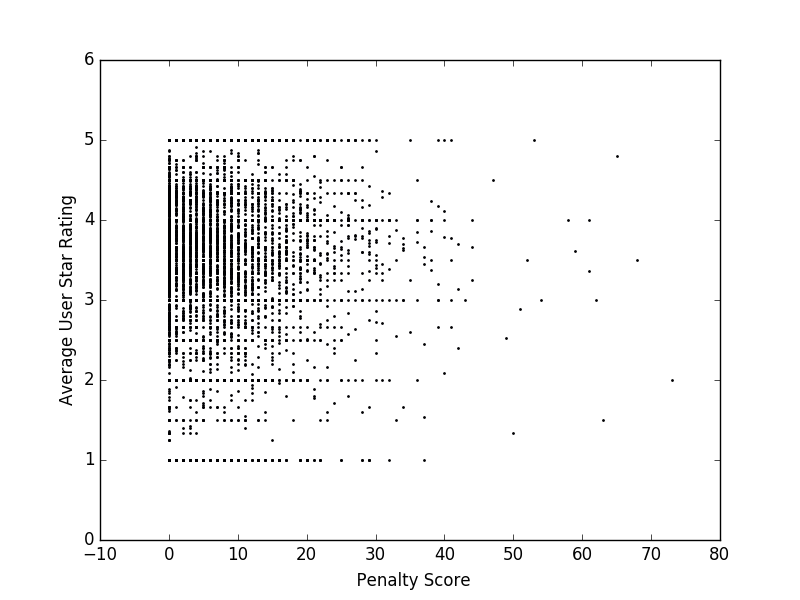
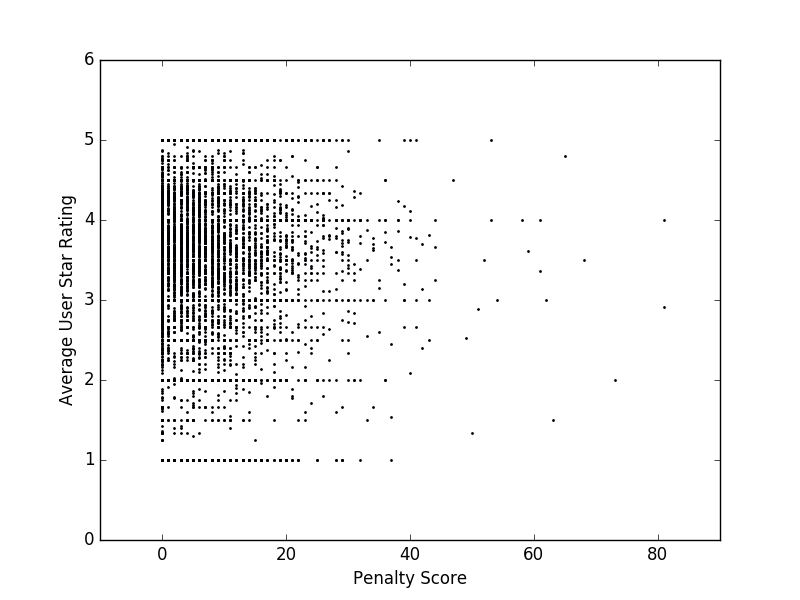
Boston University GRS CS 591
Added Trial Mode flag
Updated scatter-plit.png

diff --git a/jas91_smaf91/rating_inspection_correlation.py b/jas91_smaf91/rating_inspection_correlation.py
@@ -7,8 +7,10 @@ import scipy
 from scipy.stats import pearsonr
 from matplotlib import pyplot as plt
 import numpy as np
+import sys
+import warnings
 
-TRIAL_LIMIT = 20000
+TRIAL_LIMIT = 5000
 
 def join_business_inspections(repo, trial):
     repo.dropPermanent('jas91_smaf91.yelp_business_inspections')
@@ -26,23 +28,34 @@ def join_business_inspections(repo, trial):
 
         if not longitude and not latitude:
             continue
-
-        business = repo.jas91_smaf91.yelp_business.find_one({
+        
+        business = repo.jas91_smaf91.yelp_business.find({
             'businessname': document['businessname'].lower(),
-            'geo_info.geometry': {
-                '$near': { 
-                    '$geometry': {
-                        'type': 'Point', 
-                        'coordinates' :[latitude,longitude]
-                        }, 
-                    '$maxDistance': 50, 
-                    '$minDistance': 0 
-                    } 
-                }
-            })
+        })
+        
+        if not business or business.count() == 0:
+            continue
+            
+        if business.count() > 1:
+            business = repo.jas91_smaf91.yelp_business.find_one({
+                'businessname': document['businessname'].lower(),
+                'geo_info.geometry': {
+                    '$near': { 
+                        '$geometry': {
+                            'type': 'Point', 
+                            'coordinates' :[latitude,longitude]
+                            }, 
+                        '$maxDistance': 50, 
+                        '$minDistance': 0 
+                        } 
+                    }
+                })
+        else:
+            business = business[0]
         
         if not business:
             continue
+
 
         document['business_id'] = business['business_id']
         repo.jas91_smaf91.yelp_business_inspections.insert_one(document)
@@ -117,8 +130,11 @@ def associate_reviews(repo):
                 ratings.append(avg_rating)
 
 def evaluate_correlation(scores,ratings):
-    coef, p_value = pearsonr(scores, ratings)
-    return (coef, p_value)
+    if len(scores) > 1 and len(ratings) > 1:
+        coef, p_value = pearsonr(scores, ratings)
+        return (coef, p_value)
+    else:
+        print("[OUT] Pearson Correlation cannot be calculated: Not enough values. Try in non trial mode")
 
 def ratings_by_severity(ratings, severities):
     level0 = []
@@ -143,6 +159,11 @@ def ratings_by_severity(ratings, severities):
     print("Level 3", evaluate_correlation(level3,ratings))
     print("Penalty Score", evaluate_correlation(penal_scores,ratings))
     print("Number of violations", evaluate_correlation(number_violations,ratings))
+
+    #plt.scatter(penal_scores, ratings, s=1, alpha=1)
+    #plt.xlabel("Penalty Score")
+    #plt.ylabel("Average User Star Rating")
+    #plt.show()
 
 BUSINESS = {}
 scores = []
@@ -226,10 +247,11 @@ class rating_inspection_correlation(dml.Algorithm):
 
         return doc
 
-
-'''
-rating_inspection_correlation.execute(True)
-doc = rating_inspection_correlation.provenance()
-print(json.dumps(json.loads(doc.serialize()), indent=4))
-'''
-
+if 'trial' in sys.argv:
+    rating_inspection_correlation.execute(True)
+#else:
+#    rating_inspection_correlation.execute()
+#
+#
+#doc = rating_inspection_correlation.provenance()
+#print(json.dumps(json.loads(doc.serialize()), indent=4))

diff --git a/jas91_smaf91/skyline.py b/jas91_smaf91/skyline.py
@@ -3,6 +3,7 @@ import prov.model
 import datetime
 import uuid
 import json
+import sys
 
 from bson.code import Code
 
@@ -102,6 +103,9 @@ class skyline(dml.Algorithm):
     @staticmethod
     def execute(trial = False):
         startTime = datetime.datetime.now()
+        
+        if trial:
+            print("[OUT] Running in Trial Mode")
 
         # Set up the database connection.
         client = dml.pymongo.MongoClient()
@@ -166,6 +170,9 @@ class skyline(dml.Algorithm):
 
         return doc
 
-skyline.execute()
+if 'trial' in sys.argv:
+    skyline.execute(True)
+#else:
+#    skyline.execute()
 #doc = skyline.provenance()
 #print(json.dumps(json.loads(doc.serialize()), indent=4))

diff --git a/jas91_smaf91/transformation3.py b/jas91_smaf91/transformation3.py
@@ -3,6 +3,7 @@ import prov.model
 import datetime
 import uuid
 import json
+import sys
 
 from bson.code import Code
 
@@ -159,8 +160,11 @@ class transformation3(dml.Algorithm):
 
         return doc
 
-'''
-transformation3.execute()
-doc = transformation3.provenance()
-print(json.dumps(json.loads(doc.serialize()), indent=4))
-'''
+if 'trial' in sys.argv:
+    transformation3.execute(True)
+#else:
+#    transformation3.execute()
+
+#transformation3.execute()
+#doc = transformation3.provenance()
+#print(json.dumps(json.loads(doc.serialize()), indent=4))

diff --git a/jas91_smaf91/transformation4.py b/jas91_smaf91/transformation4.py
@@ -3,6 +3,7 @@ import prov.model
 import datetime
 import uuid
 import json
+import sys
 
 from bson.code import Code
 
@@ -308,8 +309,10 @@ class transformation4(dml.Algorithm):
 
         return doc
 
-'''
-transformation4.execute()
-doc = transformation4.provenance()
-print(json.dumps(json.loads(doc.serialize()), indent=4))
-'''
+if 'trial' in sys.argv:
+    transformation4.execute(True)
+#else:
+#    transformation4.execute()
+#
+#doc = transformation4.provenance()
+#print(json.dumps(json.loads(doc.serialize()), indent=4))

diff --git a/jas91_smaf91/load_yelp_data.py b/jas91_smaf91/load_yelp_data.py
@@ -4,6 +4,7 @@ import dml
 import prov.model
 import datetime
 import uuid
+import sys
 
 TRIAL_LIMIT = 5000
 
@@ -124,10 +125,10 @@ class load_yelp_data(dml.Algorithm):
 
         return doc
 
-'''
-load_yelp_data.execute(True)
-doc = load_yelp_data.provenance()
-print(json.dumps(json.loads(doc.serialize()), indent=4))
-'''
-
-
+if 'trial' in sys.argv:
+    load_yelp_data.execute(True)
+#else:
+#    load_yelp_data.execute()
+#
+#doc = load_yelp_data.provenance()
+#print(json.dumps(json.loads(doc.serialize()), indent=4))

diff --git a/jas91_smaf91/transformation2.py b/jas91_smaf91/transformation2.py
@@ -3,6 +3,7 @@ import dml
 import prov.model
 import datetime
 import uuid
+import sys
 
 TRIAL_LIMIT = 5000
 
@@ -190,8 +191,10 @@ class transformation2(dml.Algorithm):
 
         return doc
 
-'''
-transformation2.execute()
-doc = transformation2.provenance()
-print(json.dumps(json.loads(doc.serialize()), indent=4))
-'''
+if 'trial' in sys.argv:
+    transformation2.execute(True)
+#else:
+#    transformation2.execute()
+#
+#doc = transformation2.provenance()
+#print(json.dumps(json.loads(doc.serialize()), indent=4))

diff --git a/jas91_smaf91/transformation1.py b/jas91_smaf91/transformation1.py
@@ -4,6 +4,7 @@ import dml
 import prov.model
 import datetime
 import uuid
+import sys
 
 TRIAL_LIMIT = 5000
 
@@ -250,8 +251,9 @@ class transformation1(dml.Algorithm):
 
         return doc
 
-'''
-transformation1.execute()
-doc = transformation1.provenance()
-print(json.dumps(json.loads(doc.serialize()), indent=4))
-'''
+if 'trial' in sys.argv:
+    transformation1.execute(True)
+#else:
+#    transformation1.execute()
+#doc = transformation1.provenance()
+#print(json.dumps(json.loads(doc.serialize()), indent=4))

diff --git a/jas91_smaf91/get_data.py b/jas91_smaf91/get_data.py
@@ -5,6 +5,7 @@ import dml
 import prov.model
 import datetime
 import uuid
+import sys
 
 TRIAL_LIMIT = 5000
 
@@ -183,6 +184,9 @@ class get_data(dml.Algorithm):
         return doc
 
 # REMEMBER TO COMMENT THIS BEFORE SUBMITTING
-get_data.execute(True)
+if 'trial' in sys.argv:
+    get_data.execute(True)
+#else:
+#    get_data.execute()
 #doc = get_data.provenance()
 #print(json.dumps(json.loads(doc.serialize()), indent=4))

diff --git a/jas91_smaf91/kmeans.py b/jas91_smaf91/kmeans.py
@@ -3,6 +3,7 @@ import prov.model
 import datetime
 import uuid
 import json
+import sys
 
 from geopy.distance import great_circle
 from sklearn import cluster
@@ -194,7 +195,11 @@ class kmeans(dml.Algorithm):
 
         return doc
 
-kmeans.execute(True)
+if 'trial' in sys.argv:
+    kmeans.execute(True)
+#else:
+#    kmeans.execute()
+
 #doc = kmeans.provenance()
 #print(json.dumps(json.loads(doc.serialize()), indent=4))
 
